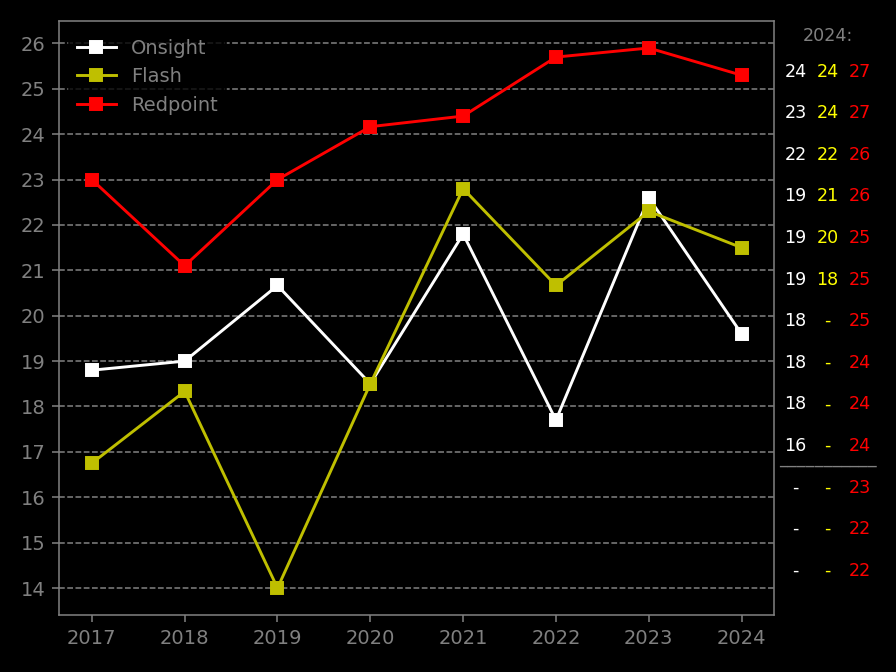
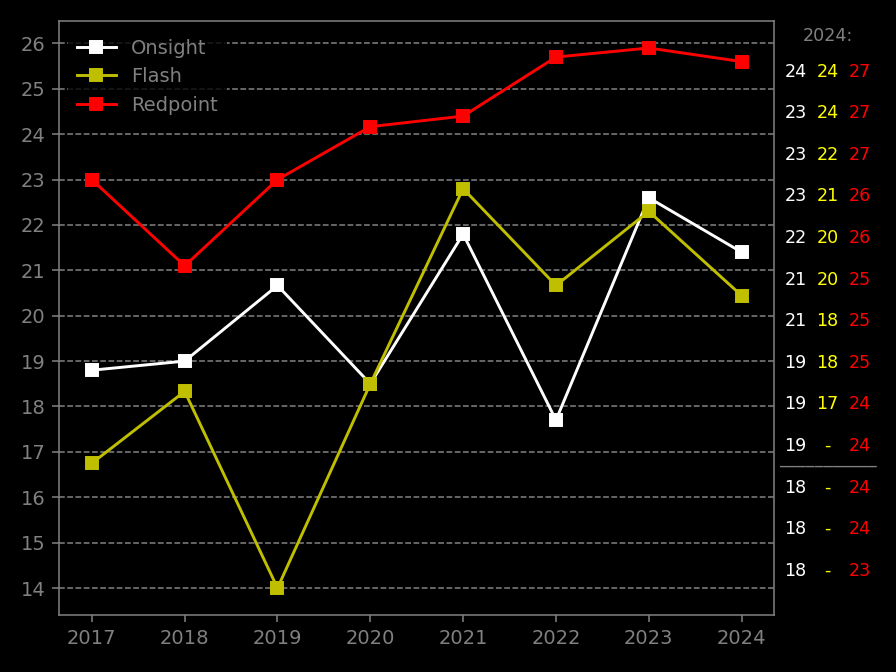
update

diff --git a/log.html b/log.html
@@ -22,6 +22,15 @@
 <h2>Log of sends</h2>
 <table class="sortable">
 <tr><th style="width:5%">date</th><th>crag</th><th>route</th><th style="width:5%">grade</th><th>type</th><th>comment</th></tr>
+<tr><td>20.02.24</td><td>Jimmy Cliff</td><td>Revival P2</td><td>15 -</td><td style='color: white; font-weight: bold;'>o</td><td>First multipitch with Tegan, I led both.</td></tr>
+<tr><td>20.02.24</td><td>Jimmy Cliff</td><td>Revival P1</td><td>23 -</td><td style='color: white; font-weight: bold;'>o</td><td>First multipitch with Tegan.</td></tr>
+<tr><td>20.02.24</td><td>Sharon Stone</td><td>Need to unwind</td><td>23 -</td><td style='color: white; font-weight: bold;'>o</td><td>Pretty cool middle section.</td></tr>
+<tr><td>20.02.24</td><td>Sharon Stone</td><td>Who's Bunny</td><td>20 -</td><td style='color: yellow; font-weight: bold;'>f</td><td></td></tr>
+<tr><td>20.02.24</td><td>Sharon Stone</td><td>Single Malt</td><td>18 -</td><td style='color: yellow; font-weight: bold;'>f</td><td></td></tr>
+<tr><td>18.02.24</td><td>Pencil Dick</td><td>Is it in Guy?</td><td>21 -</td><td style='color: white; font-weight: bold;'>o</td><td>Probably a 20.</td></tr>
+<tr><td>18.02.24</td><td>Roadside</td><td>Shortcut to exposure</td><td>17 -</td><td style='color: yellow; font-weight: bold;'>f</td><td></td></tr>
+<tr><td>17.02.24</td><td>Al Cap</td><td>Huffer</td><td>27 -</td><td style='color: red; font-weight: bold;'>r</td><td>Epic send. Maybe 6 days, and 15 goes. First tried it over a year ago.</td></tr>
+<tr><td>17.02.24</td><td>Al Cap</td><td>Foreplay</td><td>24 -</td><td style='color: red; font-weight: bold;'>r</td><td>Could get to second bolt for a while, onsighted from there.</td></tr>
 <tr><td>14.02.24</td><td>Bannockburn</td><td>Akiras new route</td><td>24 -</td><td style='color: red; font-weight: bold;'>r</td><td>Just one hard move.</td></tr>
 <tr><td>10.02.24</td><td>Mt Iron</td><td>New Route</td><td>19 -</td><td style='color: white; font-weight: bold;'>o</td><td></td></tr>
 <tr><td>09.02.24</td><td>Mt Iron</td><td>The Free Mantle</td><td>24 -</td><td style='color: red; font-weight: bold;'>r</td><td>Essentially a flash, hard tried once a year ago.</td></tr>
@@ -39,30 +48,31 @@
 <tr><td>03.02.24</td><td>Al Cap</td><td>Righteous</td><td>27 -</td><td style='color: red; font-weight: bold;'>r</td><td>A lot of tries, maybe 10-15? Got is and it didn't feel too bad in the end. Key was to learn a foot sequence for the lay back section.</td></tr>
 <tr><td>20.01.24</td><td>White Wall</td><td>Java Man</td><td>26 -</td><td style='color: red; font-weight: bold;'>r</td><td>Two no hands knee bars. aent putting up draws amd breaking off a foothold woth my hand.</td></tr>
 <tr><td>17.01.24</td><td>Pencil Dick</td><td>Reach for the Purple Love Truncheon</td><td>26 -</td><td style='color: red; font-weight: bold;'>r</td><td>Two goes, felt super easy.</td></tr>
-<tr><td>13.01.24</td><td>Pencil Dick</td><td>Take No Prisoners</td><td>22 -</td><td style='color: red; font-weight: bold;'>r</td><td>Two goes, thought it was very hard, then did it easily on second go.</td></tr>
-<tr><td>13.01.24</td><td>Pencil Dick</td><td>Grazon Against Wooly Wullens</td><td>25 -</td><td style='color: red; font-weight: bold;'>r</td><td>Two goes, easy but a hard crux with bad feet.</td></tr>
+<tr><td>13.01.24</td><td>Pencil Dick</td><td>Botox Viagra</td><td>21 -</td><td style='color: yellow; font-weight: bold;'>f</td><td>Super nice long route.</td></tr>
 <tr><td>13.01.24</td><td>Pencil Dick</td><td>My Little One</td><td>24 -</td><td style='color: white; font-weight: bold;'>o</td><td>Was very happy with this one, felt kind of easy for the grade, but fun.</td></tr>
 <tr><td>13.01.24</td><td>Pencil Dick</td><td>Stick It In</td><td>20 -</td><td style='color: yellow; font-weight: bold;'>f</td><td>Kind of hard little crux up near the top. God jamming training.</td></tr>
-<tr><td>13.01.24</td><td>Pencil Dick</td><td>Botox Viagra</td><td>21 -</td><td style='color: yellow; font-weight: bold;'>f</td><td>Super nice long route.</td></tr>
 <tr><td>13.01.24</td><td>Pencil Dick</td><td>Drop In, Drop Out</td><td>18 -</td><td style='color: yellow; font-weight: bold;'>f</td><td></td></tr>
+<tr><td>13.01.24</td><td>Pencil Dick</td><td>Grazon Against Wooly Wullens</td><td>25 -</td><td style='color: red; font-weight: bold;'>r</td><td>Two goes, easy but a hard crux with bad feet.</td></tr>
+<tr><td>13.01.24</td><td>Pencil Dick</td><td>Take No Prisoners</td><td>22 -</td><td style='color: red; font-weight: bold;'>r</td><td>Two goes, thought it was very hard, then did it easily on second go.</td></tr>
+<tr><td>10.01.24</td><td>Pencil Dick</td><td>Didn't touch the sides</td><td>21 -</td><td style='color: white; font-weight: bold;'>o</td><td>C. date. Not that good a route.</td></tr>
 <tr><td>08.01.24</td><td>Firewood Creek</td><td>Pyromaniac</td><td>24 -</td><td style='color: yellow; font-weight: bold;'>f</td><td>No hands knee-bar helped before crux. very chossy. 2nd ascent.</td></tr>
 <tr><td>08.01.24</td><td>Firewood Creek</td><td>Spontaneous combustion</td><td>23 -</td><td style='color: white; font-weight: bold;'>o</td><td>really nice semi trustworthy face climbing</td></tr>
 <tr><td>08.01.24</td><td>Firewood Creek</td><td>Pyromania</td><td>24 -</td><td style='color: yellow; font-weight: bold;'>f</td><td>No hands knee-bar helped before crux. very chossy. 2nd ascent.</td></tr>
 <tr><td>04.01.24</td><td>White Wall</td><td>whiteous</td><td>25 -</td><td style='color: red; font-weight: bold;'>r</td><td>Didn't like the route at all. Had a weird hand jam. Hrad for grade also maybe?</td></tr>
-<tr><td>02.01.24</td><td>Mt Iron</td><td>Steelworks</td><td>23 -</td><td style='color: red; font-weight: bold;'>r</td><td>Tried once years ago I think. Two goes.</td></tr>
 <tr><td>02.01.24</td><td>Mt Iron</td><td>A sharp prick</td><td>24 -</td><td style='color: red; font-weight: bold;'>r</td><td>Two goes</td></tr>
+<tr><td>02.01.24</td><td>Mt Iron</td><td>Steelworks</td><td>23 -</td><td style='color: red; font-weight: bold;'>r</td><td>Tried once years ago I think. Two goes.</td></tr>
 <tr><td>31.12.23</td><td>The Office</td><td>The 3-Hour Woman</td><td>26 -</td><td style='color: red; font-weight: bold;'>r</td><td>Maybe 7/8 goes over three days. Very hard on skin. Eventually went more 'direct' at the traverse.</td></tr>
 <tr><td>30.12.23</td><td>White Wall</td><td>Peking Man</td><td>27 -</td><td style='color: red; font-weight: bold;'>r</td><td>4 goes, climbed poorly through a lot of pump.</td></tr>
-<tr><td>21.12.23</td><td>Bannockburn</td><td>Sluice Box</td><td>23 -</td><td style='color: yellow; font-weight: bold;'>f</td><td>Not too hard, not too good.</td></tr>
 <tr><td>21.12.23</td><td>Bannockburn</td><td>Flash in the Pan</td><td>21 -</td><td style='color: yellow; font-weight: bold;'>f</td><td>Nice rock, but not that great climbing.</td></tr>
+<tr><td>21.12.23</td><td>Bannockburn</td><td>Sluice Box</td><td>23 -</td><td style='color: yellow; font-weight: bold;'>f</td><td>Not too hard, not too good.</td></tr>
 <tr><td>17.12.23</td><td>The Office</td><td>Fountain of Youth</td><td>24 -</td><td style='color: red; font-weight: bold;'>r</td><td>c. 5th go. Had tried twice ages ago. Pretty average route.</td></tr>
 <tr><td>14.12.23</td><td>Bannockburn</td><td>Take a BOW</td><td>21 -</td><td style='color: yellow; font-weight: bold;'>f</td><td>Easy if you are tall. Kind of average route, despite some OK climbing at start.</td></tr>
 <tr><td>12.12.23</td><td>Mt Iron</td><td>Mezzanine</td><td>25 -</td><td style='color: red; font-weight: bold;'>r</td><td>Worked it out quite well. Send not super desperate.</td></tr>
 <tr><td>05.12.23</td><td>Bannockburn</td><td>Just in Thyme</td><td>24 -</td><td style='color: red; font-weight: bold;'>r</td><td>Start left, use the arete (intended). Kind of easy, but scary with the rock quality.</td></tr>
 <tr><td>03.12.23</td><td>White Wall</td><td>Duck man</td><td>23 -</td><td style='color: red; font-weight: bold;'>r</td><td>2nd go. Nice climbing, hard final clip.</td></tr>
-<tr><td>01.12.23</td><td>Boat Ramp</td><td>The Rat</td><td>21 -</td><td style='color: white; font-weight: bold;'>o</td><td>Lovely climbing, had to clear away some moss at top though.</td></tr>
 <tr><td>01.12.23</td><td>Boat Ramp</td><td>Fancy Pants Salmon</td><td>20 -</td><td style='color: red; font-weight: bold;'>r</td><td>Was a bit worried and confused on first go. Did second.</td></tr>
 <tr><td>01.12.23</td><td>Boat Ramp</td><td>Unnamed</td><td>11 -</td><td style='color: white; font-weight: bold;'>o</td><td>Seemed like a 16 or so for the first 2m.</td></tr>
+<tr><td>01.12.23</td><td>Boat Ramp</td><td>The Rat</td><td>21 -</td><td style='color: white; font-weight: bold;'>o</td><td>Lovely climbing, had to clear away some moss at top though.</td></tr>
 <tr><td>06.11.23</td><td>Wye Creek</td><td>Eat Yourself Fitter</td><td>25 -</td><td style='color: red; font-weight: bold;'>r</td><td>3 goes. You can get tired on this, but not in the fingers.</td></tr>
 <tr><td>01.11.23</td><td>Bannockburn</td><td>JAM</td><td>21 -</td><td style='color: red; font-weight: bold;'>r</td><td>Messed around the crux bit on first go, and broke a foothold.</td></tr>
 <tr><td>28.10.23</td><td>Mt Iron</td><td>Bush Lawyer</td><td>22 -</td><td style='color: yellow; font-weight: bold;'>f</td><td></td></tr>
@@ -76,13 +86,13 @@
 <tr><td>07.10.23</td><td>Sunnyside</td><td>Where's the goddamned drill</td><td>18 -</td><td style='color: white; font-weight: bold;'>o</td><td></td></tr>
 <tr><td>07.10.23</td><td>Sunnyside</td><td>All that remains</td><td>24 -</td><td style='color: red; font-weight: bold;'>r</td><td>Two goes today, but tried it twice a few years back.</td></tr>
 <tr><td>01.10.23</td><td>Long Beach</td><td>Never Enough Left variant</td><td>23 -</td><td style='color: red; font-weight: bold;'>r</td><td>Climbed the route, but used the arete.</td></tr>
-<tr><td>26.09.23</td><td>Long Beach</td><td>Pheonix Rising</td><td>18 -</td><td style='color: yellow; font-weight: bold;'>f</td><td></td></tr>
-<tr><td>26.09.23</td><td>Long Beach</td><td>Fly My Pretties</td><td>20 -</td><td style='color: white; font-weight: bold;'>o</td><td>Horribly sandy start</td></tr>
-<tr><td>26.09.23</td><td>Long Beach</td><td>Rosella</td><td>19 -</td><td style='color: white; font-weight: bold;'>o</td><td>Pretty decent route</td></tr>
-<tr><td>26.09.23</td><td>Long Beach</td><td>Great Ape</td><td>18 -</td><td style='color: white; font-weight: bold;'>o</td><td>Better version of Seacliff</td></tr>
+<tr><td>26.09.23</td><td>Long Beach</td><td>Pecking Order</td><td>17 -</td><td style='color: white; font-weight: bold;'>o</td><td>Avian Wall day out with Alexandra. Scary rock quality.</td></tr>
 <tr><td>26.09.23</td><td>Long Beach</td><td>Seacliff</td><td>17 -</td><td style='color: white; font-weight: bold;'>o</td><td></td></tr>
 <tr><td>26.09.23</td><td>Long Beach</td><td>Layer Cake</td><td>19 -</td><td style='color: white; font-weight: bold;'>o</td><td>OK route.</td></tr>
-<tr><td>26.09.23</td><td>Long Beach</td><td>Pecking Order</td><td>17 -</td><td style='color: white; font-weight: bold;'>o</td><td>Avian Wall day out with Alexandra. Scary rock quality.</td></tr>
+<tr><td>26.09.23</td><td>Long Beach</td><td>Great Ape</td><td>18 -</td><td style='color: white; font-weight: bold;'>o</td><td>Better version of Seacliff</td></tr>
+<tr><td>26.09.23</td><td>Long Beach</td><td>Rosella</td><td>19 -</td><td style='color: white; font-weight: bold;'>o</td><td>Pretty decent route</td></tr>
+<tr><td>26.09.23</td><td>Long Beach</td><td>Fly My Pretties</td><td>20 -</td><td style='color: white; font-weight: bold;'>o</td><td>Horribly sandy start</td></tr>
+<tr><td>26.09.23</td><td>Long Beach</td><td>Pheonix Rising</td><td>18 -</td><td style='color: yellow; font-weight: bold;'>f</td><td></td></tr>
 <tr><td>25.09.23</td><td>Long Beach</td><td>Maybe</td><td>20 -</td><td style='color: red; font-weight: bold;'>r</td><td>Pinnacle. Two goes... slipped with cold hands and feet. But an interesting short route. Well worth the climb.</td></tr>
 <tr><td>16.09.23</td><td>Long Beach</td><td>Unknown to left</td><td>23 -</td><td style='color: yellow; font-weight: bold;'>f</td><td>Bolt city. Short nice route behind LoL.</td></tr>
 <tr><td>21.05.23</td><td>High Side</td><td>Daydreams & Fantasies</td><td>23 -</td><td style='color: white; font-weight: bold;'>o</td><td>Superb climbing that seemed to reward good climbing.</td></tr>
@@ -95,8 +105,8 @@
 <tr><td>07.05.23</td><td>Long Beach</td><td>Jeremys Route</td><td>26 -</td><td style='color: red; font-weight: bold;'>r</td><td>Bolt city. 3 goes. Got "palm up" beta at second crux which helped. This is 27 in some books, and there is a 24 variant.</td></tr>
 <tr><td>07.05.23</td><td>Long Beach</td><td>Labours of Love</td><td>24 -</td><td style='color: red; font-weight: bold;'>r</td><td>Bolt city. 4 goes over 4 years.</td></tr>
 <tr><td>07.05.23</td><td>Long Beach</td><td>Crime and Punishment</td><td>22 -</td><td style='color: yellow; font-weight: bold;'>f</td><td>Actually a red point, flashed it on a forgotten date a couple months back, just a repeat todayl</td></tr>
-<tr><td>06.05.23</td><td>Long Beach</td><td>Lightning Strike</td><td>20 -</td><td style='color: yellow; font-weight: bold;'>f</td><td>Main cliff left. One really quite hard move.</td></tr>
 <tr><td>06.05.23</td><td>Long Beach</td><td>Fleet Street</td><td>20 -</td><td style='color: yellow; font-weight: bold;'>f</td><td>Main cliff left. Long lovely day out with Fran.</td></tr>
+<tr><td>06.05.23</td><td>Long Beach</td><td>Lightning Strike</td><td>20 -</td><td style='color: yellow; font-weight: bold;'>f</td><td>Main cliff left. One really quite hard move.</td></tr>
 <tr><td>29.04.23</td><td>Wye Creek</td><td>Liver Abuse</td><td>16 -</td><td style='color: white; font-weight: bold;'>o</td><td>14 in the book. Not sure about the grade. Felt hard for the book version.</td></tr>
 <tr><td>29.04.23</td><td>Wye Creek</td><td>Te Koha</td><td>17 -</td><td style='color: white; font-weight: bold;'>o</td><td>15 in the book. Not sure about the grade. Felt hard for the book version.</td></tr>
 <tr><td>25.04.23</td><td>Little Babylon</td><td>Multitude</td><td>21 -</td><td style='color: yellow; font-weight: bold;'>f</td><td>Was sick with my stomach thing that morning, so did this.</td></tr>
@@ -110,47 +120,47 @@
 <tr><td>04.04.23</td><td>Firewood Creek</td><td>Anthropocene</td><td>24 -</td><td style='color: red; font-weight: bold;'>r</td><td>Seemed quite hard, but with good beta was quite easy.</td></tr>
 <tr><td>04.04.23</td><td>Firewood Creek</td><td>Pyrocene</td><td>23 -</td><td style='color: red; font-weight: bold;'>r</td><td></td></tr>
 <tr><td>04.04.23</td><td>Firewood Creek</td><td>Rocketry</td><td>20 -</td><td style='color: white; font-weight: bold;'>o</td><td></td></tr>
-<tr><td>26.03.23</td><td>Whale Watching</td><td>No Thanks I'd Rather Walk</td><td>20 -</td><td style='color: yellow; font-weight: bold;'>f</td><td></td></tr>
-<tr><td>26.03.23</td><td>Whale Watching</td><td>Hobo Humping Slobo Babe</td><td>23 -</td><td style='color: red; font-weight: bold;'>r</td><td>Second go. Just one hard move that I failed on the first go.</td></tr>
 <tr><td>26.03.23</td><td>Whale Watching</td><td>Moby Dick</td><td>25 -</td><td style='color: red; font-weight: bold;'>r</td><td>Second go. Quite a nice climb.</td></tr>
 <tr><td>26.03.23</td><td>Whale Watching</td><td>10 Boy Scouts</td><td>24 -</td><td style='color: white; font-weight: bold;'>o</td><td>Thought it was an 18, did it as a warm up. Got warm.</td></tr>
-<tr><td>22.03.23</td><td>Bannockburn</td><td>A Thyme to Remember</td><td>22 -</td><td style='color: white; font-weight: bold;'>o</td><td>Not that chossy actually</td></tr>
+<tr><td>26.03.23</td><td>Whale Watching</td><td>Hobo Humping Slobo Babe</td><td>23 -</td><td style='color: red; font-weight: bold;'>r</td><td>Second go. Just one hard move that I failed on the first go.</td></tr>
+<tr><td>26.03.23</td><td>Whale Watching</td><td>No Thanks I'd Rather Walk</td><td>20 -</td><td style='color: yellow; font-weight: bold;'>f</td><td></td></tr>
 <tr><td>22.03.23</td><td>Bannockburn</td><td>A Shade of Afternoon Arete</td><td>19 -</td><td style='color: red; font-weight: bold;'>r</td><td>Had worked TRS one day. Actually quite a nice climb.</td></tr>
 <tr><td>22.03.23</td><td>Bannockburn</td><td>Its Business Thyme</td><td>19 -</td><td style='color: white; font-weight: bold;'>o</td><td>Was worried about the choss</td></tr>
+<tr><td>22.03.23</td><td>Bannockburn</td><td>A Thyme to Remember</td><td>22 -</td><td style='color: white; font-weight: bold;'>o</td><td>Not that chossy actually</td></tr>
 <tr><td>15.03.23</td><td>Bannockburn</td><td>Bogan to the Bone</td><td>16 -</td><td style='color: white; font-weight: bold;'>o</td><td></td></tr>
 <tr><td>15.03.23</td><td>Bannockburn</td><td>Sands of Thyme</td><td>24 -</td><td style='color: red; font-weight: bold;'>r</td><td>Took 4 attemps over 2 days. A lot of beta to get confused about. Big move right at the 4th.</td></tr>
-<tr><td>10.03.23</td><td>Mt Iron</td><td>The Bastard from Gunn Rd</td><td>24 -</td><td style='color: red; font-weight: bold;'>r</td><td>Two goes, did the 'proper' line and and to skip a lot of chalked holds and use other little sidepulls.</td></tr>
 <tr><td>10.03.23</td><td>Mt Iron</td><td>Mine, Mine, Mine</td><td>25 -</td><td style='color: red; font-weight: bold;'>r</td><td>Two goes. Quite soft I thought. Slightly more endurance based that it seems, and no super hard moves.</td></tr>
+<tr><td>10.03.23</td><td>Mt Iron</td><td>The Bastard from Gunn Rd</td><td>24 -</td><td style='color: red; font-weight: bold;'>r</td><td>Two goes, did the 'proper' line and and to skip a lot of chalked holds and use other little sidepulls.</td></tr>
 <tr><td>08.03.23</td><td>Bannockburn</td><td>No Excuses</td><td>22 -</td><td style='color: white; font-weight: bold;'>o</td><td>Maybe the nicest climb of the crag. Had to wait on it, while another guy climbed the route beside.</td></tr>
 <tr><td>07.03.23</td><td>Mt Iron</td><td>Right Bastard</td><td>26 -</td><td style='color: red; font-weight: bold;'>r</td><td>Worked this for three sessions. A bad fall early on may have scarred me a little on it.</td></tr>
 <tr><td>05.03.23</td><td>Bannockburn</td><td>Chain gang</td><td>15 -</td><td style='color: white; font-weight: bold;'>o</td><td>Approx date.</td></tr>
 <tr><td>05.03.23</td><td>Bannockburn</td><td>Cherry Picker</td><td>20 -</td><td style='color: white; font-weight: bold;'>o</td><td></td></tr>
 <tr><td>05.03.23</td><td>Bannockburn</td><td>Heart of the Desert</td><td>17 -</td><td style='color: white; font-weight: bold;'>o</td><td></td></tr>
-<tr><td>03.03.23</td><td>Riverside</td><td>Zoot Alors</td><td>24 -</td><td style='color: red; font-weight: bold;'>r</td><td>Had one attemp about a month back. Maybe soft, but a super nice route.</td></tr>
 <tr><td>03.03.23</td><td>Riverside</td><td>The Engorger</td><td>24 -</td><td style='color: yellow; font-weight: bold;'>f</td><td>Nice route, probably soft, one harder move as you go over the bulge.</td></tr>
+<tr><td>03.03.23</td><td>Riverside</td><td>Zoot Alors</td><td>24 -</td><td style='color: red; font-weight: bold;'>r</td><td>Had one attemp about a month back. Maybe soft, but a super nice route.</td></tr>
 <tr><td>26.02.23</td><td>Hotline Corner</td><td>Penance</td><td>21 -</td><td style='color: yellow; font-weight: bold;'>f</td><td>Was happy to flash this good-ish line, and was basically an onsight (had seen someone on it).</td></tr>
 <tr><td>26.02.23</td><td>Hotline Corner</td><td>Fuckity fuck fuck</td><td>19 -</td><td style='color: white; font-weight: bold;'>o</td><td>Beaufitul line, certain a three star</td></tr>
 <tr><td>26.02.23</td><td>Hotline Corner</td><td>Hey George</td><td>20 -</td><td style='color: white; font-weight: bold;'>o</td><td>A crux the very soft first pitch (which is 18).</td></tr>
 <tr><td>26.02.23</td><td>Hotline Corner</td><td>Big & Chossy Bedroom Sossy</td><td>18 -</td><td style='color: yellow; font-weight: bold;'>f</td><td></td></tr>
+<tr><td>25.02.23</td><td>Rumour Mill</td><td>Two stroke</td><td>15 -</td><td style='color: white; font-weight: bold;'>o</td><td></td></tr>
 <tr><td>25.02.23</td><td>Rumour Mill</td><td>Muzzas</td><td>22 -</td><td style='color: white; font-weight: bold;'>o</td><td></td></tr>
 <tr><td>25.02.23</td><td>Rumour Mill</td><td>After bush</td><td>18 -</td><td style='color: white; font-weight: bold;'>o</td><td></td></tr>
-<tr><td>25.02.23</td><td>Rumour Mill</td><td>Two stroke</td><td>15 -</td><td style='color: white; font-weight: bold;'>o</td><td></td></tr>
 <tr><td>01.02.23</td><td>Riverside</td><td>Jack be Nimble</td><td>23 -</td><td style='color: red; font-weight: bold;'>r</td><td>Approx. date. Kind of a flash, but I think I tried it some years back. Super soft, but a nice climb.</td></tr>
 <tr><td>19.01.23</td><td>Al Cap</td><td>Huffer</td><td>25 -</td><td style='color: red; font-weight: bold;'>r</td><td></td></tr>
 <tr><td>18.01.23</td><td>Al Cap</td><td>R.T.D.</td><td>23 -</td><td style='color: yellow; font-weight: bold;'>f</td><td></td></tr>
+<tr><td>15.01.23</td><td>Falcon Steep</td><td>Cougar Corner</td><td>17 -</td><td style='color: white; font-weight: bold;'>o</td><td>Approx date.</td></tr>
 <tr><td>15.01.23</td><td>The Office</td><td>Flake News</td><td>22 -</td><td style='color: white; font-weight: bold;'>o</td><td>Approx date.</td></tr>
 <tr><td>15.01.23</td><td>Falcon Steep</td><td>Falcon Steep</td><td>22 -</td><td style='color: white; font-weight: bold;'>o</td><td>Approx date. Was a great climb, kind of sequency at the start, lovely second half.</td></tr>
-<tr><td>15.01.23</td><td>Falcon Steep</td><td>Cougar Corner</td><td>17 -</td><td style='color: white; font-weight: bold;'>o</td><td>Approx date.</td></tr>
-<tr><td>13.01.23</td><td>Farside</td><td>Bogans</td><td>17 -</td><td style='color: yellow; font-weight: bold;'>f</td><td></td></tr>
-<tr><td>13.01.23</td><td>Farside</td><td>Unknown 23 beside bogans</td><td>23 -</td><td style='color: red; font-weight: bold;'>r</td><td></td></tr>
 <tr><td>13.01.23</td><td>Farside</td><td>Jock the Frotterer</td><td>19 -</td><td style='color: white; font-weight: bold;'>o</td><td></td></tr>
 <tr><td>13.01.23</td><td>Farside</td><td>In Flagrante Delecto</td><td>19 -</td><td style='color: white; font-weight: bold;'>o</td><td></td></tr>
 <tr><td>13.01.23</td><td>Farside</td><td>Chairman Ed</td><td>17 -</td><td style='color: white; font-weight: bold;'>o</td><td></td></tr>
+<tr><td>13.01.23</td><td>Farside</td><td>Unknown 23 beside bogans</td><td>23 -</td><td style='color: red; font-weight: bold;'>r</td><td></td></tr>
+<tr><td>13.01.23</td><td>Farside</td><td>Bogans</td><td>17 -</td><td style='color: yellow; font-weight: bold;'>f</td><td></td></tr>
 <tr><td>12.01.23</td><td>Mt Iron</td><td>Waking up the Missus</td><td>20 -</td><td style='color: white; font-weight: bold;'>o</td><td></td></tr>
 <tr><td>09.01.23</td><td>Riverside</td><td>Jack Be Nimble</td><td>23 -</td><td style='color: white; font-weight: bold;'>o</td><td>Very soft</td></tr>
+<tr><td>07.01.23</td><td>Mt Iron</td><td>Irony</td><td>25 -</td><td style='color: red; font-weight: bold;'>r</td><td>Bouldery, third go.</td></tr>
 <tr><td>07.01.23</td><td>Mt Iron</td><td>Iron Maiden</td><td>22 -</td><td style='color: yellow; font-weight: bold;'>f</td><td></td></tr>
 <tr><td>07.01.23</td><td>Mt Iron</td><td>Out there on the edge</td><td>20 -</td><td style='color: yellow; font-weight: bold;'>f</td><td></td></tr>
-<tr><td>07.01.23</td><td>Mt Iron</td><td>Irony</td><td>25 -</td><td style='color: red; font-weight: bold;'>r</td><td>Bouldery, third go.</td></tr>
 <tr><td>30.09.22</td><td>Storvika</td><td>Gompi</td><td>22 (6c)</td><td style='color: red; font-weight: bold;'>r</td><td>Flashed it almost a year ago with broken toe, but didn't log</td></tr>
 <tr><td>30.09.22</td><td>Storvika</td><td>Closed project</td><td>20 (6b)</td><td style='color: red; font-weight: bold;'>r</td><td>Flashed it almost a year ago with broken toe.</td></tr>
 <tr><td>30.09.22</td><td>Storvika</td><td>Høyrevridd propaganda</td><td>16 (5+)</td><td style='color: white; font-weight: bold;'>o</td><td>Really poor rock quality.</td></tr>
@@ -159,20 +169,20 @@
 <tr><td>10.09.22</td><td>Flatanger</td><td>Hans</td><td>25 (7b)</td><td style='color: red; font-weight: bold;'>r</td><td>Soft. Two goes, very top is technical/trust your feet. Pretty easy when you know whats up. Topped out.</td></tr>
 <tr><td>23.08.22</td><td>Hell</td><td>Butthole surfer</td><td>21 (6b+)</td><td style='color: red; font-weight: bold;'>r</td><td>Quite cruxy, and not really a noteworthy climb.</td></tr>
 <tr><td>21.08.22</td><td>Hell</td><td>Raakkenraall</td><td>25 (7b)</td><td style='color: red; font-weight: bold;'>r</td><td>One quite hard move.</td></tr>
-<tr><td>05.08.22</td><td>Hell</td><td>En liten svingom</td><td>18 (6a)</td><td style='color: white; font-weight: bold;'>o</td><td></td></tr>
-<tr><td>05.08.22</td><td>Hell</td><td>Lykkebuen</td><td>20 (6b)</td><td style='color: white; font-weight: bold;'>o</td><td></td></tr>
 <tr><td>05.08.22</td><td>Hell</td><td>Skjaeringspunktet</td><td>21 (6b+)</td><td style='color: white; font-weight: bold;'>o</td><td></td></tr>
-<tr><td>05.08.22</td><td>Hell</td><td>Runddansen</td><td>18 (6a)</td><td style='color: white; font-weight: bold;'>o</td><td></td></tr>
 <tr><td>05.08.22</td><td>Hell</td><td>Joggesko</td><td>11 (4)</td><td style='color: white; font-weight: bold;'>o</td><td></td></tr>
+<tr><td>05.08.22</td><td>Hell</td><td>Runddansen</td><td>18 (6a)</td><td style='color: white; font-weight: bold;'>o</td><td></td></tr>
 <tr><td>05.08.22</td><td>Hell</td><td>Lettere opp enn ned</td><td>12 (4+)</td><td style='color: white; font-weight: bold;'>o</td><td></td></tr>
+<tr><td>05.08.22</td><td>Hell</td><td>Lykkebuen</td><td>20 (6b)</td><td style='color: white; font-weight: bold;'>o</td><td></td></tr>
+<tr><td>05.08.22</td><td>Hell</td><td>En liten svingom</td><td>18 (6a)</td><td style='color: white; font-weight: bold;'>o</td><td></td></tr>
 <tr><td>24.07.22</td><td>Beachen</td><td>Brillefin</td><td>25 (7b)</td><td style='color: red; font-weight: bold;'>r</td><td>Soft. Basically just a crux. Maybe it feels more like the grade if its at your max?</td></tr>
 <tr><td>23.07.22</td><td>Beachen</td><td>Aloha</td><td>26 (7b+)</td><td style='color: red; font-weight: bold;'>r</td><td>Great line. 3 goes. On the easier side probably. Super nice climb with a little crux at the top.</td></tr>
 <tr><td>22.07.22</td><td>Beachen</td><td>Herlige Tider</td><td>23 (7a)</td><td style='color: yellow; font-weight: bold;'>f</td><td></td></tr>
 <tr><td>14.07.22</td><td>Flatanger</td><td>Frigg L1</td><td>26 (7b+)</td><td style='color: red; font-weight: bold;'>r</td><td>Three goes, but took a while to get a beta. Super physical. Knee pad.</td></tr>
 <tr><td>13.07.22</td><td>Flatanger</td><td>Steiny L1</td><td>29 (8a)</td><td style='color: red; font-weight: bold;'>r</td><td>First 8a. About 7 attempts</td></tr>
 <tr><td>03.07.22</td><td>Flatanger</td><td>Kykkelikokos</td><td>26 (7b+)</td><td style='color: red; font-weight: bold;'>r</td><td>Took three attempts on the top. Probably easy for the grade when dry.</td></tr>
-<tr><td>02.07.22</td><td>Flatanger</td><td>Kykkeli</td><td>25 (7b)</td><td style='color: red; font-weight: bold;'>r</td><td>Did it on a warm up, easy when dry (with good beta)</td></tr>
 <tr><td>02.07.22</td><td>Flatanger</td><td>Ukjent</td><td>21 (6b+)</td><td style='color: white; font-weight: bold;'>o</td><td>I heard it was 6b, either grade could be correct.</td></tr>
+<tr><td>02.07.22</td><td>Flatanger</td><td>Kykkeli</td><td>25 (7b)</td><td style='color: red; font-weight: bold;'>r</td><td>Did it on a warm up, easy when dry (with good beta)</td></tr>
 <tr><td>09.06.22</td><td>Hell</td><td>Klassikeren</td><td>25 (7b)</td><td style='color: red; font-weight: bold;'>r</td><td>Tried this on occasion over multiple years but got injured on it so never took it too serious. Went pretty easy in the end.</td></tr>
 <tr><td>06.06.22</td><td>Ishoel</td><td>Naadelos som Cola</td><td>20 (6b)</td><td style='color: yellow; font-weight: bold;'>f</td><td></td></tr>
 <tr><td>06.06.22</td><td>Ishoel</td><td>Action direct</td><td>16 (5+)</td><td style='color: red; font-weight: bold;'>r</td><td></td></tr>
@@ -180,9 +190,9 @@
 <tr><td>05.06.22</td><td>Ishoel</td><td>Malaria</td><td>21 (6b+)</td><td style='color: red; font-weight: bold;'>r</td><td>Had onsighted it the year before.</td></tr>
 <tr><td>05.06.22</td><td>Ishoel</td><td>Lommerusk</td><td>20 (6b)</td><td style='color: yellow; font-weight: bold;'>f</td><td>Was told I used holds not on the route.</td></tr>
 <tr><td>04.06.22</td><td>Ishoel</td><td>Furubjorn</td><td>22 (6c)</td><td style='color: red; font-weight: bold;'>r</td><td>Had done it the year before</td></tr>
-<tr><td>19.03.22</td><td>Kongeveggen</td><td>Magnus Berrfott</td><td>18 (6a)</td><td style='color: yellow; font-weight: bold;'>f</td><td></td></tr>
-<tr><td>19.03.22</td><td>Kongeveggen</td><td>Cleopatra av Egypt</td><td>22 (6c+)</td><td style='color: yellow; font-weight: bold;'>f</td><td></td></tr>
 <tr><td>19.03.22</td><td>Kongeveggen</td><td>Kong Olavs men</td><td>21 (6b+)</td><td style='color: yellow; font-weight: bold;'>f</td><td></td></tr>
+<tr><td>19.03.22</td><td>Kongeveggen</td><td>Cleopatra av Egypt</td><td>22 (6c+)</td><td style='color: yellow; font-weight: bold;'>f</td><td></td></tr>
+<tr><td>19.03.22</td><td>Kongeveggen</td><td>Magnus Berrfott</td><td>18 (6a)</td><td style='color: yellow; font-weight: bold;'>f</td><td></td></tr>
 <tr><td>19.03.22</td><td>Kongeveggen</td><td>Prinsesse Madeleine</td><td>19 (6a+)</td><td style='color: red; font-weight: bold;'>r</td><td></td></tr>
 <tr><td>14.03.22</td><td>Harbak</td><td>Krokkofant</td><td>0 (B6A+)</td><td style='color: red; font-weight: bold;'>r</td><td></td></tr>
 <tr><td>14.03.22</td><td>Harbak</td><td>Elledille</td><td>0 (B6B+)</td><td style='color: red; font-weight: bold;'>r</td><td></td></tr>
@@ -196,9 +206,9 @@
 <tr><td>19.11.21</td><td>Masouri Skyline</td><td>Ivi</td><td>24 (7a+)</td><td style='color: white; font-weight: bold;'>o</td><td>I climbed well, but it wasn't as hard as the grade</td></tr>
 <tr><td>19.11.21</td><td>Masouri Skyline</td><td>Monahiki elia</td><td>19 (6a+)</td><td style='color: yellow; font-weight: bold;'>f</td><td></td></tr>
 <tr><td>17.11.21</td><td>Masouri Skyline</td><td>Kerveros</td><td>23 (7a)</td><td style='color: white; font-weight: bold;'>o</td><td></td></tr>
-<tr><td>16.11.21</td><td>Arginonta Valley</td><td>Unicorn</td><td>24 (7a+)</td><td style='color: red; font-weight: bold;'>r</td><td>Hard finish</td></tr>
-<tr><td>16.11.21</td><td>Arginonta Valley</td><td>Diagoras</td><td>23 (7a)</td><td style='color: yellow; font-weight: bold;'>f</td><td></td></tr>
 <tr><td>16.11.21</td><td>Arginonta Valley</td><td>Rhythm of the rain</td><td>19 (6a+)</td><td style='color: white; font-weight: bold;'>o</td><td></td></tr>
+<tr><td>16.11.21</td><td>Arginonta Valley</td><td>Diagoras</td><td>23 (7a)</td><td style='color: yellow; font-weight: bold;'>f</td><td></td></tr>
+<tr><td>16.11.21</td><td>Arginonta Valley</td><td>Unicorn</td><td>24 (7a+)</td><td style='color: red; font-weight: bold;'>r</td><td>Hard finish</td></tr>
 <tr><td>16.11.21</td><td>Arginonta Valley</td><td>Arion</td><td>22 (6c+)</td><td style='color: red; font-weight: bold;'>r</td><td></td></tr>
 <tr><td>15.11.21</td><td>Masouri Skyline</td><td>DNA</td><td>23 (7a)</td><td style='color: red; font-weight: bold;'>r</td><td>Was pretty sick (literally), but its very easy if you know some rests.</td></tr>
 <tr><td>11.11.21</td><td>Odyssey</td><td>Dionysos</td><td>23 (7a)</td><td style='color: red; font-weight: bold;'>r</td><td>Super easy (c. 6b+) to get to the anchor, only hard move was clipping that.</td></tr>

diff --git a/main.py b/main.py
@@ -24,7 +24,7 @@ current_year = today.year
 df = util.read_log_file(LOGFILE, grades, WARNINGS)
 
 # ---- Make the figures
-analysis.fig_sport_total(df, grades_inv, max_ascents=33)
+analysis.fig_sport_total(df, grades_inv, max_ascents=36)
 analysis.fig_sport_time(df, stop=current_year, top_year=current_year)
 analysis.fig_sport_time_all(df, stop=current_year)
 analysis.sport_grade_table(df, stop=current_year)
